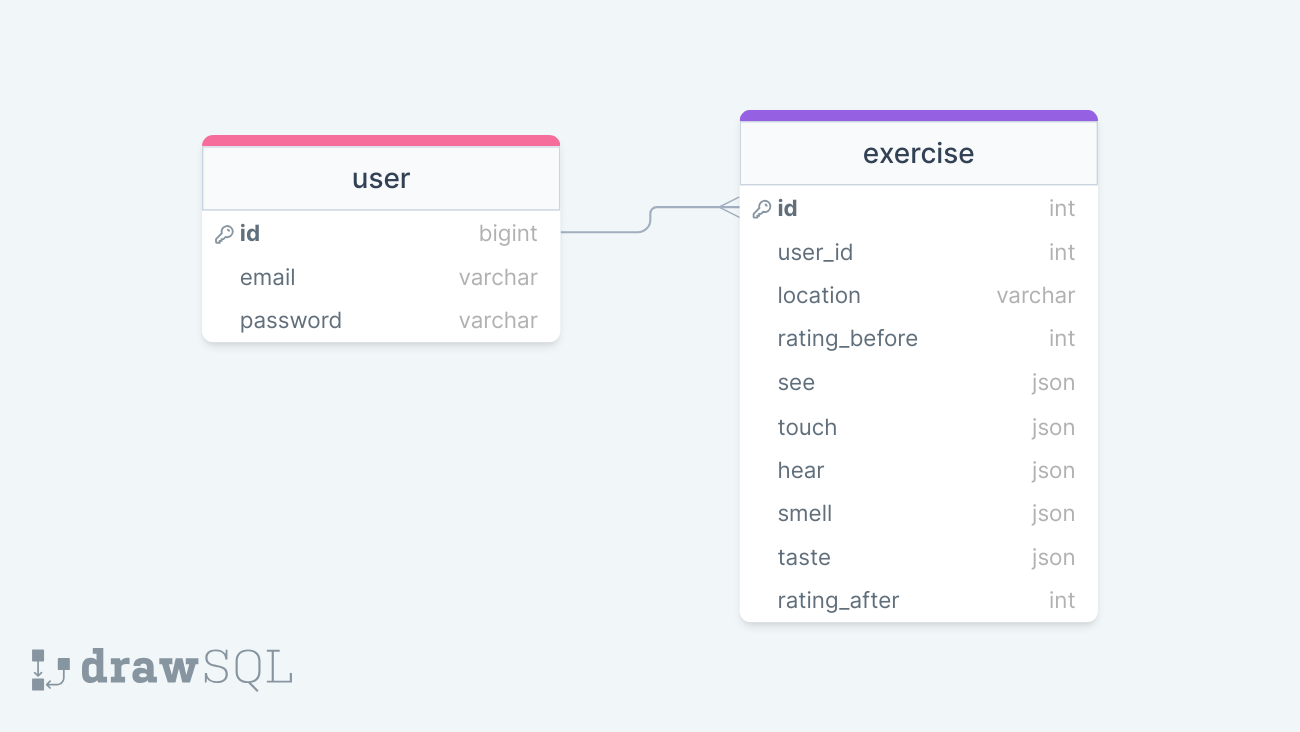
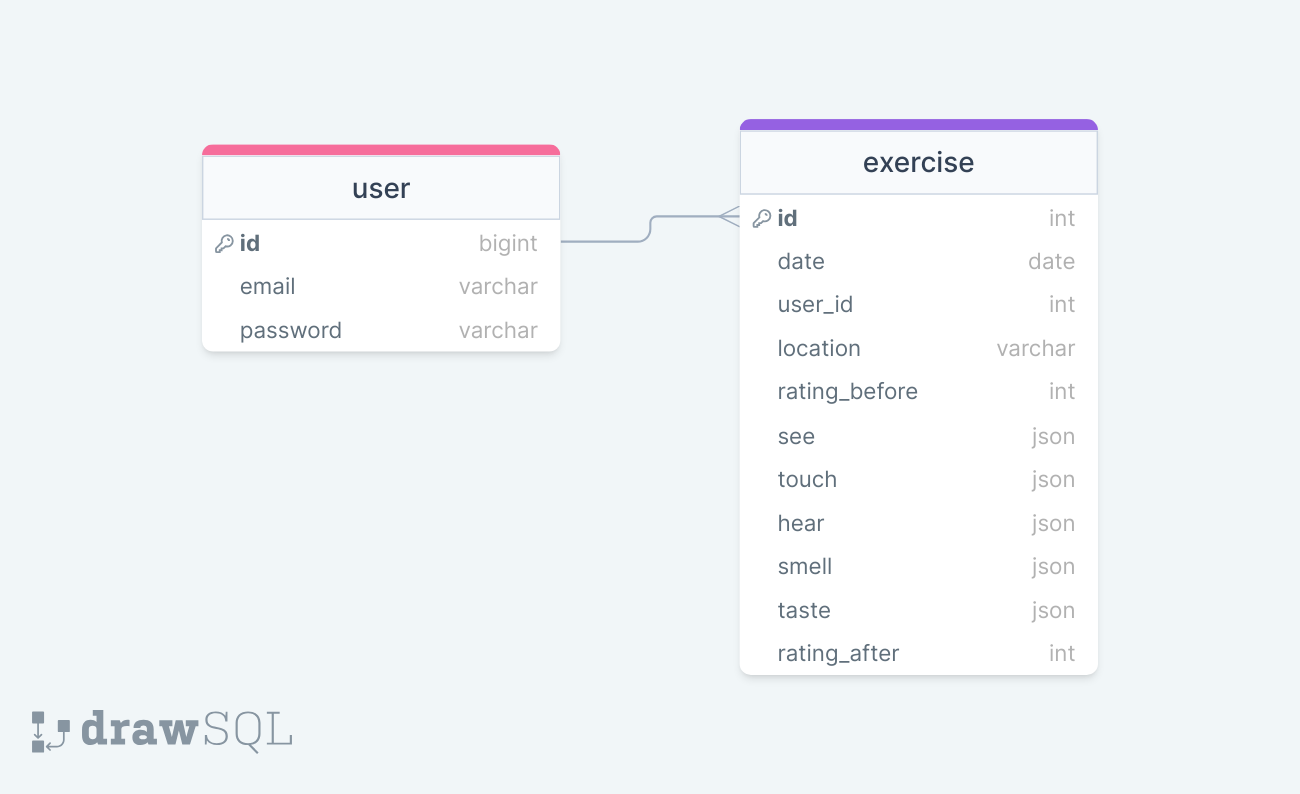
updates data image

diff --git a/README.md b/README.md
@@ -82,6 +82,7 @@ Response:
     {
         "id": 1,
         "user_id": 1,
+        "date": (timestamp),
         "location", "home",
         "rating_before": 5,
         "see": ["one", "two", "three", "four", "five"],
@@ -111,6 +112,7 @@ Response:
     {
         "id": 1,
         "user_id": 1,
+        "date": (timestamp),
         "location", "home",
         "rating_before": 5,
         "see": ["one", "two", "three", "four", "five"],
@@ -195,6 +197,10 @@ Yes, tbd
 
   - Create form for login page
   - POST/users/login endpoint
+
+- Feature: About page
+
+  - info on how the exercise works and links to mental health resources
 
 - Auth
 
